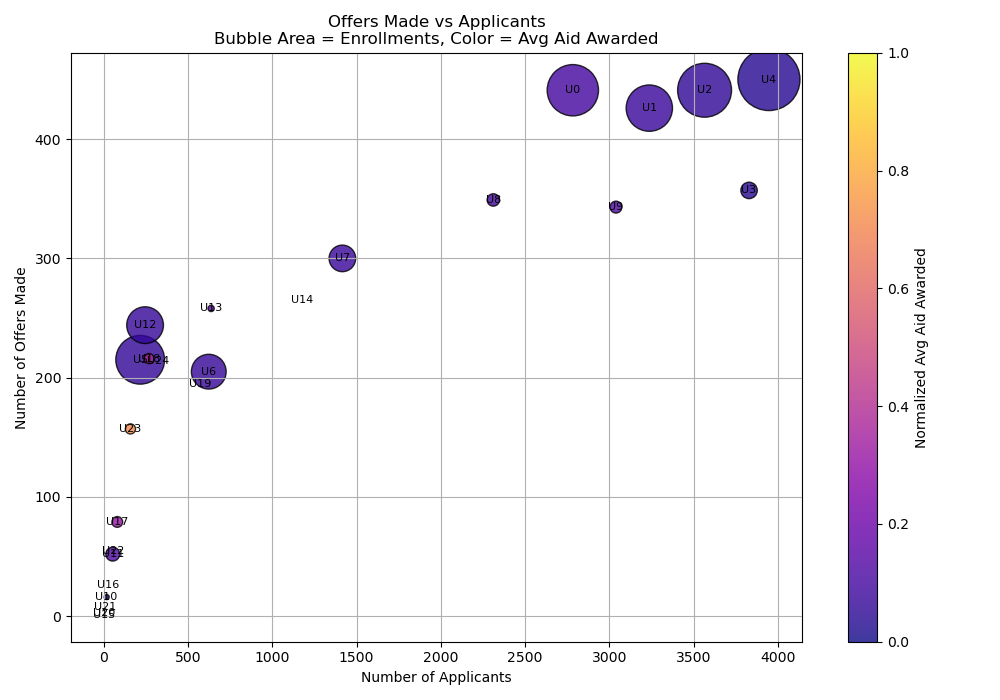
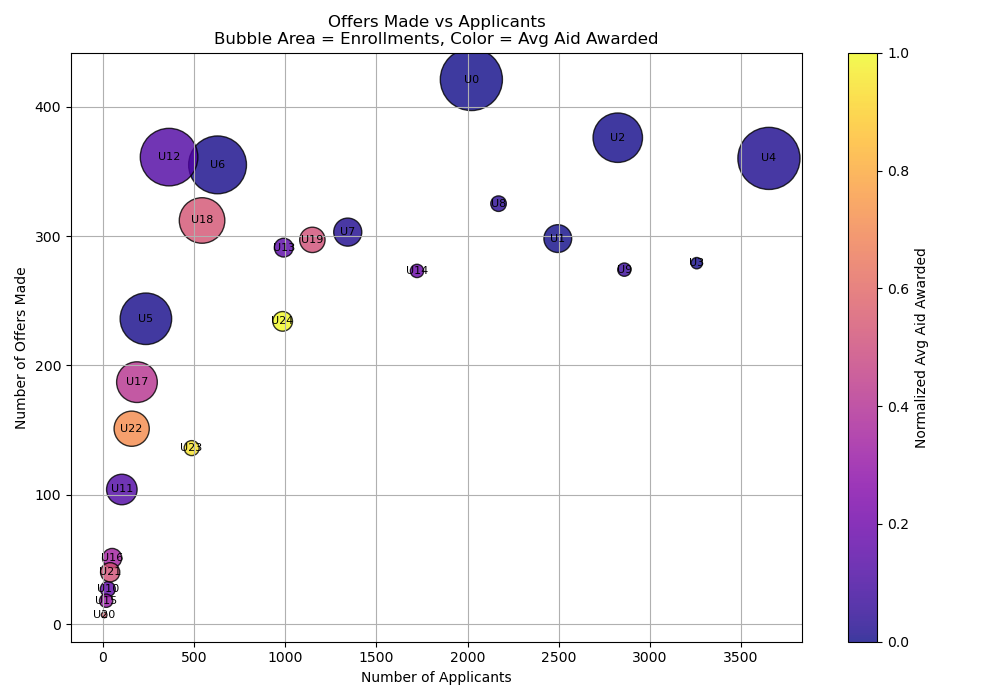
playing

diff --git a/ver2.py b/ver2.py
@@ -4,6 +4,7 @@ import pandas as pd
 import matplotlib
 import matplotlib.pyplot as plt 
 import numpy as np
+
 class Student:
     def __init__(self, id, score, efc, noise):
         self.id = id
@@ -18,7 +19,10 @@ class Student:
         self.enrolled_at = None
 
     def expected_net_cost(self,u):
-        est_aid = min(u.cost, max(0, (self.score - 800) / 400 * u.cost))
+        if self.efc>u.cost:
+            est_aid = min(u.cost, max(0, (self.score - 800) / 400 * u.cost))
+        else:
+            est_aid = max(0, u.cost - self.efc)
         return u.cost - est_aid
 
     def app_utility(self,u):
@@ -50,7 +54,7 @@ class University:
         self.applicants = []
         self.enrolled_students = []
         self.num_applicants=0
-
+    
     def reset(self):
         self.applicants = []
         self.enrolled_students = []
@@ -60,16 +64,15 @@ class University:
         self.applicants.append(student)
         self.num_applicants += 1
 
-    def admit(self):
+    def admit(self): # baseline university behavior, only admit based on capacity, score, and aid is only need-based
         self.applicants.sort(key=lambda s: s.score, reverse=True)
-        overbook_factor = 1.5
-        admits = self.applicants[:int(self.capacity * overbook_factor)]
+        admits = self.applicants[:int(self.capacity)]
         for student in admits:
             # Offer merit-based aid: scaled by how strong the score is
-            merit_factor = (student.score - 800) / 400  # range roughly -0.5 to +0.75
+            # merit_factor = (student.score - 800) / 400  # range roughly -0.5 to +0.75
             need = max(0, self.cost - student.efc)
-            merit_aid = self.cost * merit_factor
-            aid = max(0, min(self.cost, int(min(need, merit_aid))))
+            # merit_aid = self.cost * merit_factor
+            aid = max(0, min(self.cost, need)) #int(min(need, merit_aid))))
             student.aid_offers[self.id] = aid
             student.offers.append(self)
         self.applicants.clear()
@@ -80,13 +83,14 @@ class University:
             return True
         return False
 
-
 class Simulation:
-    def __init__(self, num_students, num_universities):
+    def __init__(self, num_students=1000, num_publics=20, num_privates=5, num_states=1):
         self.students = []
         self.universities = []
         self.num_students = num_students
-        self.num_universities = num_universities
+        self.num_universities = num_publics + num_privates
+        self.frac_privates = num_privates / self.num_universities
+        self.num_states = num_states
 
     def setup_students(self):
         for i in range(self.num_students):
@@ -100,9 +104,20 @@ class Simulation:
         print(f"Created {len(self.students)} students with scores ranging from "
               f"{min(s.score for s in self.students)} to {max(s.score for s in self.students)} and EFCs from "
               f"{min(s.efc for s in self.students)} to {max(s.efc for s in self.students)}")
+
     def setup_universities(self):
-        cost_references = np.linspace(10, 80, self.num_universities)
-        prestige_references = np.linspace(0.5, 1.0, self.num_universities)
+        for i in range(self.num_universities):
+            prestige = random.uniform(0.5, 1.0) 
+            x=random.uniform(0,1)
+            pop='public'
+            cost = np.clip(int(random.gauss(80, 10),60,100))
+            if x<self.frac_privates:
+                cost = np.clip(int(random.gauss(80, 10),60,100))
+                pop='private'
+
+    def setup_universities_regular_grid(self):
+        cost_references = np.linspace(10, 80, int(np.sqrt(self.num_universities)))
+        prestige_references = np.linspace(0.5, 1.0, int(np.sqrt(self.num_universities)))
         for i, (c, p) in enumerate(product(cost_references, prestige_references)):
             capacity = int(np.clip(200 - 50 * (c - 40) / 40 + random.gauss(0, 30), 50, 300))
             uni = University(id=f"U{i}", prestige=p, cost=int(c), capacity=capacity)
@@ -269,8 +284,8 @@ class Simulation:
         plt.close('all')
 
 # --- Setup ---
-NUM_STUDENTS = 4000
-NUM_UNIVERSITIES = 5
+NUM_STUDENTS = 5000
+NUM_UNIVERSITIES = 25
 simulation = Simulation(NUM_STUDENTS, NUM_UNIVERSITIES)
 simulation.setup_universities()
 simulation.setup_students()

diff --git a/simulation.py b/simulation.py
@@ -1,0 +1,33 @@
+# Author: Cameron F. Abrams <cfa22@drexel.edu>
+
+class Simulation:
+    def __init__(self, num_students=1000, num_publics=20, num_privates=5, num_states=1):
+        self.students = []
+        self.universities = []
+        self.num_students = num_students
+        self.num_universities = num_publics + num_privates
+        self.frac_privates = num_privates / self.num_universities
+        self.num_states = num_states
+
+    def setup_students(self):
+        for i in range(self.num_students):
+            base_score = np.clip(random.gauss(1000, 100), 0, 1600)  # Score between 0 and 1600
+            efc = np.clip(random.gauss(30, 30), 0, 100)  # Expected Family Contribution ($k)
+            # Slight downward adjustment to score based on higher efc
+            adjusted_score = base_score + (efc - 30) * random.uniform(0.6, 1.0)
+            adjusted_score = int(max(600, min(1600, adjusted_score)))  # clamp to reasonable range
+            student = Student(id=f"S{i}", score=adjusted_score, efc=efc, noise=random.uniform(0.05, 0.15))
+            self.students.append(student)
+        print(f"Created {len(self.students)} students with scores ranging from "
+              f"{min(s.score for s in self.students)} to {max(s.score for s in self.students)} and EFCs from "
+              f"{min(s.efc for s in self.students)} to {max(s.efc for s in self.students)}")
+
+    def setup_universities(self):
+        for i in range(self.num_universities):
+            prestige = random.uniform(0.5, 1.0) 
+            x=random.uniform(0,1)
+            pop='public'
+            cost = np.clip(int(random.gauss(80, 10),60,100))
+            if x<self.frac_privates:
+                cost = np.clip(int(random.gauss(80, 10),60,100))
+                pop='private'

diff --git a/student.py b/student.py
@@ -1,0 +1,44 @@
+# Author: Cameron F. Abrams <cfa22@drexel.edu>
+import numpy as np
+
+class Student:  # base student class
+    def __init__(self, id, score, efc):
+        self.id = id
+        self.score = score
+        self.efc = efc  # Expected Family Contribution ($k)
+        self.applications = []
+        self.offers = []
+        self.aid_offers = {}  # university.id -> aid amount
+        self.enrolled_at = None
+
+    def expected_net_cost(self,u):
+        est_aid = 0
+        return u.cost - est_aid
+
+    def app_utility(self,u):
+        prestige_weight = self.score / 1600
+        cost_weight = 1 / (self.efc + 1)
+        return prestige_weight * u.prestige - cost_weight * self.expected_net_cost(u)
+    
+    def apply(self, u):
+        if u not in self.applications:
+            self.applications.append(u)
+            u.applicants.append(self)
+            u.num_applicants += 1
+            return True
+        return False
+
+    def choose_utility(self, u):
+        aid = self.aid_offers.get(u.id, 0)
+        net_cost = np.clip(u.cost - aid,0, None)  # Ensure non-negative net cost
+        prestige_weight = self.score / 1600  # normalize score to [0,1]
+        cost_weight = 1 / (self.efc + 1)  # more cost sensitivity if low EFC
+        return prestige_weight * u.prestige - cost_weight * net_cost
+    
+    def choose(self):
+        if not self.offers:
+            return
+        best = max(self.offers, key=self.choose_utility)
+        if best.enroll(self):
+            self.enrolled_at = best
+

diff --git a/university.py b/university.py
@@ -1,0 +1,35 @@
+# Author: Cameron F. Abrams <cfa22@drexel.edu>
+
+class University:
+    def __init__(self, id, prestige, cost, capacity):
+        self.id = id
+        self.prestige = prestige
+        self.cost = cost
+        self.capacity = capacity
+        self.applicants = []
+        self.enrolled_students = []
+        self.num_applicants=0
+    
+    def reset(self):
+        self.applicants = []
+        self.enrolled_students = []
+        self.num_applicants=0
+
+    def admit(self): # baseline university behavior, only admit based on capacity, score, and aid is only need-based
+        self.applicants.sort(key=lambda s: s.score, reverse=True)
+        admits = self.applicants[:int(self.capacity)]
+        for student in admits:
+            # Offer merit-based aid: scaled by how strong the score is
+            # merit_factor = (student.score - 800) / 400  # range roughly -0.5 to +0.75
+            need = max(0, self.cost - student.efc)
+            # merit_aid = self.cost * merit_factor
+            aid = max(0, min(self.cost, need)) #int(min(need, merit_aid))))
+            student.aid_offers[self.id] = aid
+            student.offers.append(self)
+        self.applicants.clear()
+
+    def enroll(self, student):
+        if len(self.enrolled_students) < self.capacity:
+            self.enrolled_students.append(student)
+            return True
+        return False

diff --git a/cycle.py b/cycle.py
@@ -1,0 +1,25 @@
+# Author: Cameron F. Abrams <cfa22@drexel.edu>
+
+class Cycle:
+    def __init__(self, num):
+        self.simulation = simulation
+        self.students = simulation.students
+        self.universities = simulation.universities
+
+    def run(self):
+        # Reset universities for a new cycle
+        for u in self.universities:
+            u.next_cycle()
+
+        # Students apply to universities
+        for student in self.students:
+            for university in self.universities:
+                student.apply(university)
+
+        # Universities admit students based on their criteria
+        for university in self.universities:
+            university.admit()
+
+        # Students choose the best offer they received
+        for student in self.students:
+            student.choose()
